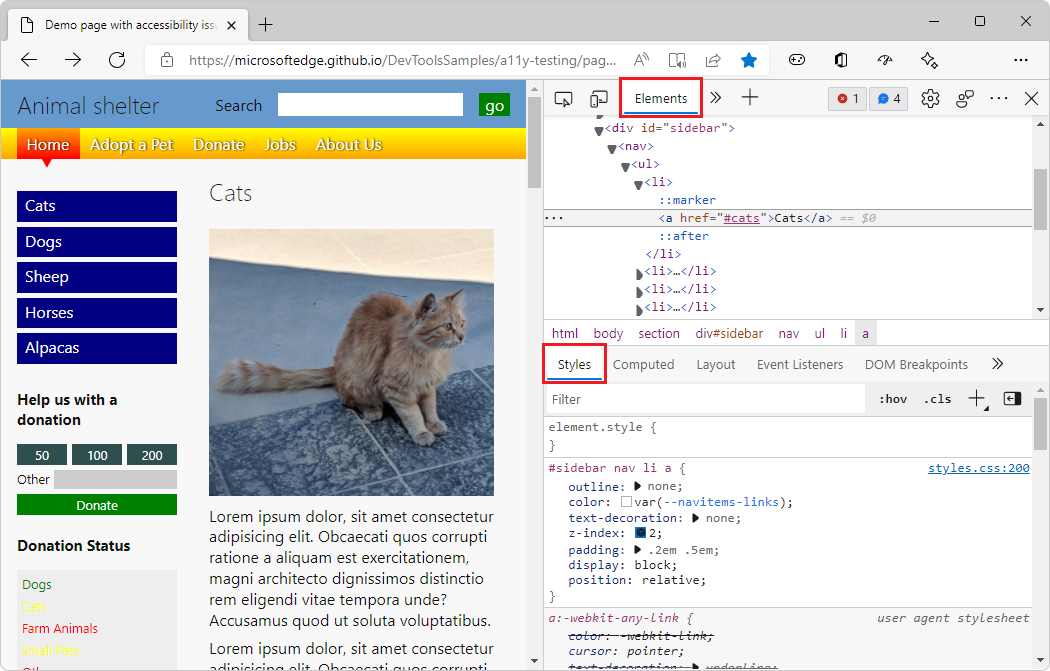
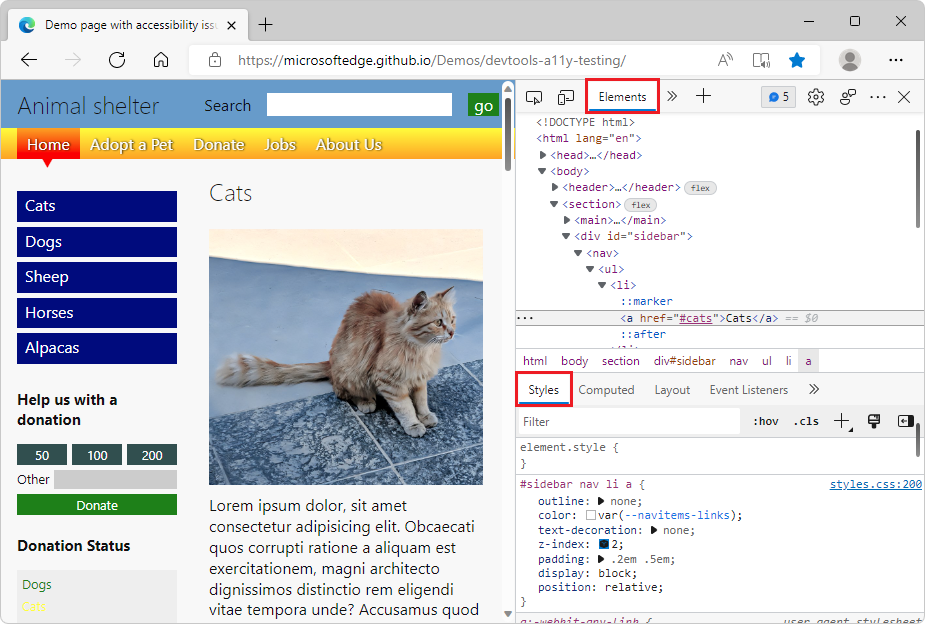
Updated demo url in capture

diff --git a/microsoft-edge/devtools-guide-chromium/sample-code/sample-code.md b/microsoft-edge/devtools-guide-chromium/sample-code/sample-code.md
@@ -17,7 +17,7 @@ The sample code that's used by the DevTools documentation is mainly in the [Micr
 <!-- ====================================================================== -->
 ## Demo webpage with accessibility issues
 
-This demo webpage is useful for exploring various DevTools features, such as the **Elements** tool.
+This demo webpage is useful for exploring various DevTools features.
 
 1. Open the [Demo webpage with accessibility issues](https://MicrosoftEdge.github.io/Demos/devtools-a11y-testing/) in a new window or tab.
 
